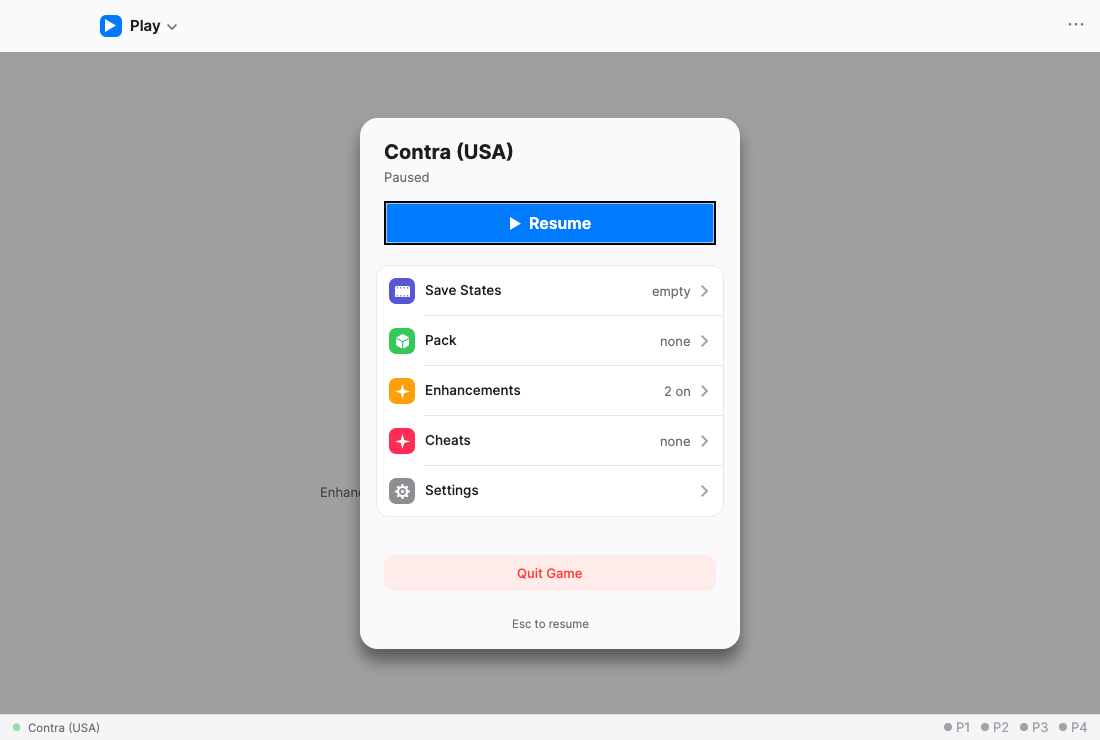
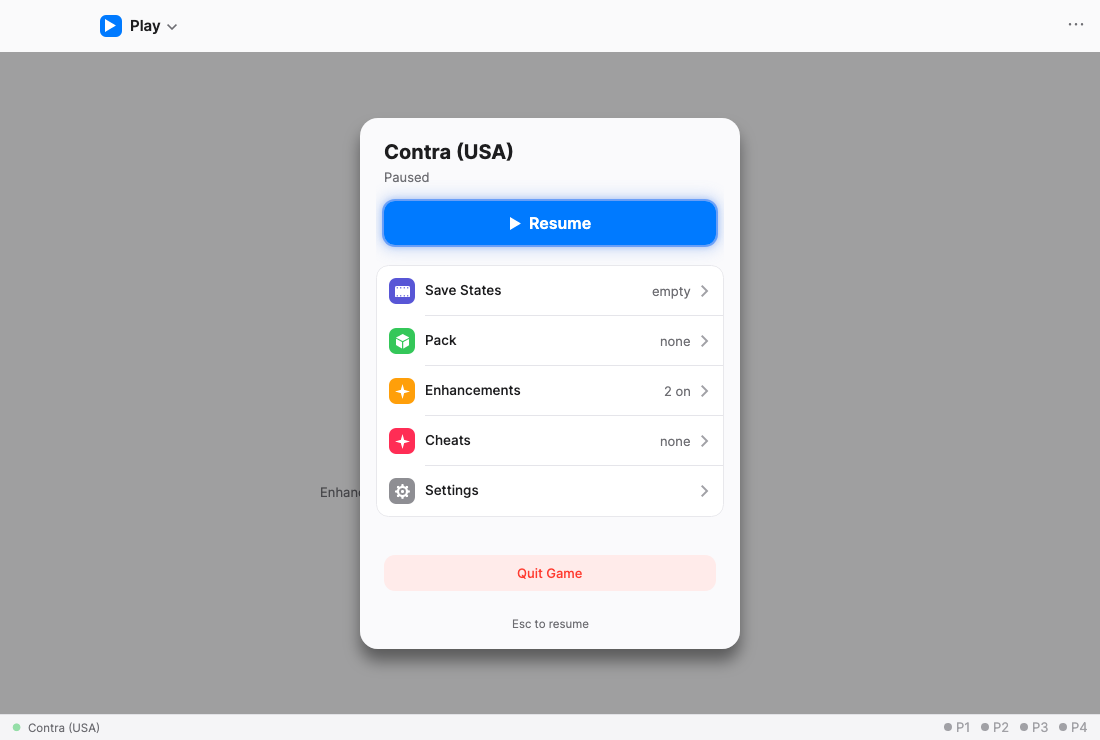
fix(play): the ring's clip comes off with the ring, not for good (Refs #1089)
The rule #1089 added cleared ClipToBounds on every `.player` Button, TextBox,
drop-down and segmented TabItem all the time, which is wider than the ring
needs: the clip is only in the way while the ring is on screen. Keyed on
:focus-visible - the pseudo-class the ring itself is set on - it is off exactly
then, and the control's own content keeps the clip it had before.

The `.popup` drop-down is two controls on the same bounds, so the wrapper
answers :focus-within (focus lands in its ComboBox#Dropdown, never on it) and
the drop-down answers :focus-visible directly.

Also here: A_primary_press_in_a_plain_window closes its window in a finally
like every other case in the file, and An_overflowing_unfocused_press_and_
field_spill_nothing pins that an overflowing press, field, drop-down and
segment draw nothing past their own box while none of them has the ring.

The W-P4 committed renders (macOS and linux) are re-committed: the whole diff
is the focused Resume press drawing the theme's ring where the framework's
black frame used to be, and 0 pixels outside that button's box changed. The
W-P2 render is left alone, per the review.

Changed region(s): [[0.34, 0.2486, 0.68, 0.3419]]

diff --git a/UI.HeadlessTests/PlayerFocusRingRenderTests.cs b/UI.HeadlessTests/PlayerFocusRingRenderTests.cs
@@ -36,6 +36,11 @@ public class PlayerFocusRingRenderTests
 	//PlayerFocusRing's innermost layer, #7FB0FF, at full alpha.
 	private static readonly Color RingBlue = Color.FromRgb(0x7F, 0xB0, 0xFF);
 
+	//The window behind the overflow case: a colour Play never paints, so any
+	//pixel of it around a control is the window and any other pixel is the
+	//control's own drawing, past its own box.
+	private static readonly Color SpillBackdrop = Color.FromRgb(0xFF, 0x00, 0xFF);
+
 	//How far around a press's bounds the band is read: 3 px out, 3 px in. The
 	//ring's crisp layer is a 2 px spread, so a ring drawn outward sits in the
 	//part outside and one drawn inward sits in the part inside - the band takes
@@ -71,12 +76,101 @@ public class PlayerFocusRingRenderTests
 		window.Show();
 		Pump();
 
-		Focus(resume);
-		using Bitmap frame = PlayerRender.Capture(window);
-		PlayerRender.Save(frame, "focus-ring-primary-press");
+		//try/finally like every other case here: a window left open by a failing
+		//assertion takes focus and breaks the tests after it (#1089 review 3).
+		try {
+			Focus(resume);
+			using Bitmap frame = PlayerRender.Capture(window);
+			PlayerRender.Save(frame, "focus-ring-primary-press");
 
-		AssertRing(frame, window, resume);
-		window.Close();
+			AssertRing(frame, window, resume);
+		} finally {
+			window.Close();
+			Pump();
+		}
+	}
+
+	//#1089 (review 1 and 2): the clip the ring needs lifted has to stay on while
+	//the ring is down, so an overflowing press, field, drop-down or segment -
+	//*none of them focused* - draws nothing past its own box.
+	//
+	//What this case can and cannot say, measured: it holds on the rule it was
+	//written against (ClipToBounds = false on the whole selector list, all the
+	//time) as well as on the `:focus-visible` one that replaced it. The content
+	//of these four controls is clipped by a part of their own template - the
+	//press's PART_Background, the field's PART_ScrollViewer, the drop-down's
+	//content presenter - so the outer clip is not what keeps it in, and the
+	//review's "a long value in a TextBox spills past the rounded border" is not
+	//reproducible here. It is a guard on the rule, not the case that fails red
+	//on the old one: what W-P2's render actually lost is in the PR body, and it
+	//is the framework's focus frame, not a text line.
+	[AvaloniaFact]
+	public void An_overflowing_unfocused_press_and_field_spill_nothing()
+	{
+		//64 px wide against content that wants far more: the press's own label,
+		//the field's own value and the drop-down's own selected item all have to
+		//be clipped to the box the theme laid out.
+		Button press = new() {
+			Classes = { "primary" },
+			Width = 64,
+			Height = 24,
+			HorizontalAlignment = HorizontalAlignment.Left,
+			Content = new TextBlock { Text = "Overflowing label", FontSize = 20 }
+		};
+		TextBox field = new() {
+			Width = 64,
+			Height = 24,
+			HorizontalAlignment = HorizontalAlignment.Left,
+			Text = "a value far wider than the field is"
+		};
+		ComboBox dropdown = new() {
+			Classes = { "popup" },
+			Width = 64,
+			HorizontalAlignment = HorizontalAlignment.Left,
+			ItemsSource = new[] { "Aspect Ratio: a label far wider than the field" },
+			SelectedIndex = 0
+		};
+		TabControl segment = new() {
+			Classes = { "segmented" },
+			Width = 90,
+			HorizontalAlignment = HorizontalAlignment.Left,
+			ItemsSource = new[] { new TabItem { Header = "An overflowing segment header", Width = 40 } }
+		};
+
+		Window window = new() {
+			Width = 600,
+			Height = 560,
+			//A colour the Play theme paints nowhere, so a pixel of it is the
+			//window and a pixel that is not it belongs to a control.
+			Background = new SolidColorBrush(SpillBackdrop),
+			Content = new StackPanel {
+				Margin = new Thickness(160, 60),
+				Spacing = 80,
+				Children = { press, field, dropdown, segment }
+			}
+		};
+		window.Classes.Add("player");
+		window.Classes.Add("play");
+		window.Show();
+		Pump();
+
+		try {
+			Assert.False(press.IsFocused, "the press took focus, so this case would prove nothing");
+			Assert.False(field.IsFocused, "the field took focus, so this case would prove nothing");
+			Assert.False(dropdown.IsFocused, "the drop-down took focus, so this case would prove nothing");
+			Assert.False(segment.IsFocused, "the segmented tab took focus, so this case would prove nothing");
+
+			using Bitmap frame = PlayerRender.Capture(window);
+			PlayerRender.Save(frame, "focus-ring-unfocused-overflow");
+
+			AssertNothingSpills(frame, window, press);
+			AssertNothingSpills(frame, window, field);
+			AssertNothingSpills(frame, window, dropdown);
+			AssertNothingSpills(frame, window, segment);
+		} finally {
+			window.Close();
+			Pump();
+		}
 	}
 
 	//#1089: the Aspect Ratio field in Play's Display sheet is a
@@ -262,6 +356,32 @@ public class PlayerFocusRingRenderTests
 
 		Assert.True(outside.Any(c => Near(c, RingBlue)),
 			$"no #7FB0FF pixel outside {bounds}: the ring is cut off at the press's edge.{Describe(bounds, outside)}");
+	}
+
+	//The clip's other half, read as pixels: a control that is not showing the
+	//ring draws nothing outside its own bounds, so every pixel in the band
+	//around it is the backdrop. AssertRingOutside's mirror image - that one
+	//wants blue out there, this one wants nothing but the window.
+	private static void AssertNothingSpills(Bitmap frame, Window window, Control control)
+	{
+		Point origin = control.TranslatePoint(new Point(0, 0), window)
+			?? throw new InvalidOperationException("the control is not in the window");
+		Rect bounds = new(origin, control.Bounds.Size);
+
+		List<Color> band = new();
+		for(int y = (int)bounds.Top - Band; y < (int)bounds.Bottom + Band; y++) {
+			for(int x = (int)bounds.Left - Band; x < (int)bounds.Right + Band; x++) {
+				bool inside = x >= bounds.Left && x < bounds.Right && y >= bounds.Top && y < bounds.Bottom;
+				bool onFrame = x >= 0 && y >= 0 && x < frame.PixelSize.Width && y < frame.PixelSize.Height;
+				if(!inside && onFrame) {
+					band.Add(PlayerRender.Pixel(frame, x, y));
+				}
+			}
+		}
+
+		List<Color> spilled = band.Where(c => !Near(c, SpillBackdrop)).ToList();
+		Assert.True(spilled.Count == 0,
+			$"{spilled.Count} of {band.Count} pixels outside {bounds} are not the window: the control drew past its own box.{Describe(bounds, band)}");
 	}
 
 	private static bool Near(Color a, Color b)
